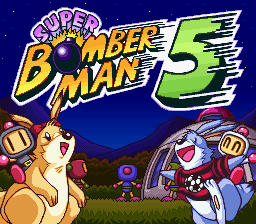
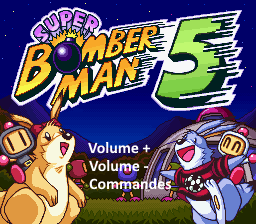
Option en cours (quasi fini)

Changed region(s): [[0.3438, 0.7188, 0.6875, 0.8438], [0.3438, 0.625, 0.5938, 0.6875]]

diff --git a/Bomberman/Bomberman/Main.cpp b/Bomberman/Bomberman/Main.cpp
@@ -312,7 +312,7 @@ void TraitementClavier(int key, int x, int y)
 {
 	glutPostRedisplay();
 
-	if (afficherMenu) {
+	if (afficherMenu || afficherOption) {
 		//Bouge le curseur 
 		if (key == GLUT_KEY_UP) {
 			if (position_cursor_y > 0.63) {
@@ -437,34 +437,41 @@ void TraitementClavierASCII(unsigned char key, int x, int y) {
 	}
 	else if (afficherOption) {
 		if (position_cursor == 1) { // volume
-			
+			volume += 5;
 		}
 		else if (position_cursor == 2) { //Commande
+			volume -= 5;
+		}
+		else if (position_cursor == 3) { //Commande
 			afficherOption = false;
-			afficherCommande = true;			
+			afficherCommande = true;
 		}
 	}
-	else {
-		if (afficherCommande) { //retour
-			afficherCommande = false;
-			afficherOption = true;
-		}
-		else {
+	else if( !afficherMenu && ! afficherOption && !afficherCommande){
 			if ((key == 66 || key == 98) && !pause) { // touche B
 				bomberman.lancerBombe();
 			}
+
 			//mettre en pause le jeu
 			if (key == 80 || key == 112) { // touche P
 				if (pause) pause = false;
 				else pause = true;
 			}
-		}
-
 	}
 
 	if (key == 27) {// Escape key
-		glutDestroyWindow(1);
-		exit(0);
+		if (afficherCommande) { //retour
+			afficherCommande = false;
+			afficherOption = true;
+		}
+		else if (afficherOption) { //retour
+			afficherOption = false;
+			afficherMenu = true;		
+		}
+		else {
+			glutDestroyWindow(1);
+			exit(0);
+		}
 	}
 
 	glFlush();
@@ -581,7 +588,7 @@ void PlayMusic(int z) {
 				}
 				else {
 					cout << "Musique Menu" << endl;
-					volume = 100;
+				//	volume = 100;
 					musicMenu.setVolume(volume);
 					musicMenu.play();
 					musicMenu.setLoop(true);
@@ -673,8 +680,8 @@ void TraitementArduino(int z) {
 		if (readResult != -1) {
 			//BOUTONS
 			if (incomingData[0] == 'A') { //on appuie sur le bouton	
-				if (!pause && !afficherHistoire && !afficherMenu) { // touche B
-																	//printf("\n BombeButton");
+				if (!pause && !afficherHistoire && !afficherMenu && !afficherOption && !afficherCommande) { // touche B
+					//printf("\n BombeButton");
 					bomberman.lancerBombe();
 				}
 				else  if (afficherHistoire) {
@@ -682,14 +689,27 @@ void TraitementArduino(int z) {
 					afficherMenu = true;
 				}
 				else if (afficherMenu && !afficherHistoire) {
-					if (position_cursor == 1) { //avanture
+					if (position_cursor == 1) { //aventure
 						afficherMenu = false;
 					}
 					else if (position_cursor == 2) { //versus
 
 					}
 					else if (position_cursor == 3) {//option
-
+						afficherMenu = false;
+						afficherOption = true;
+					}
+				}
+				else if (afficherOption) {
+					if (position_cursor == 1) { // volume
+						volume += 5;
+					}
+					else if (position_cursor == 2) { //Commande
+						volume -= 5;
+					}
+					else if (position_cursor == 3) { //Commande
+						afficherOption = false;
+						afficherCommande = true;
 					}
 				}
 			}
@@ -726,6 +746,10 @@ void TraitementArduino(int z) {
 					afficherCommande = false;
 					afficherOption = true;
 				}
+				else if (afficherOption) { //retour
+					afficherMenu = true;
+					afficherOption = false;
+				}
 			}
 
 			if (incomingData[0] == 'R') {
@@ -737,7 +761,7 @@ void TraitementArduino(int z) {
 			}
 
 			//JOYSTICK	
-			if (afficherMenu) {
+			if (afficherMenu || afficherOption) {
 				//Bouge le curseur 
 				if (incomingData[0] == 'H') {
 					if (position_cursor_y > 0.63) {
@@ -853,7 +877,7 @@ void main() {
 	/* 19 */ LoadGLTextures("images/Background1.png");
 	/* 20 */ LoadGLTextures("images/Background2.png");
 	/* 21 */ LoadGLTextures("images/Background3.png");
-	/* 22 */ LoadGLTextures("images/Menu_Option.png");
+	/* 22 */ LoadGLTextures("images/Options.png");
 	/* 23 */ LoadGLTextures("images/Commandes.png");
 
 	// Gestion des sons
